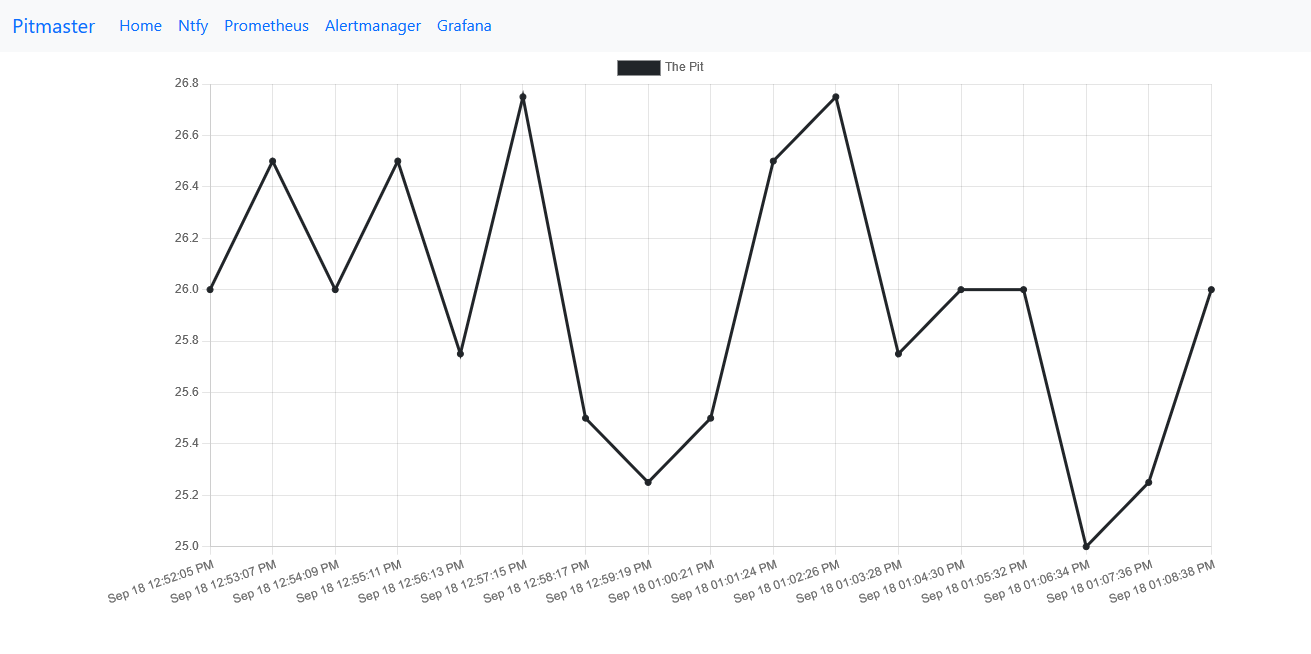
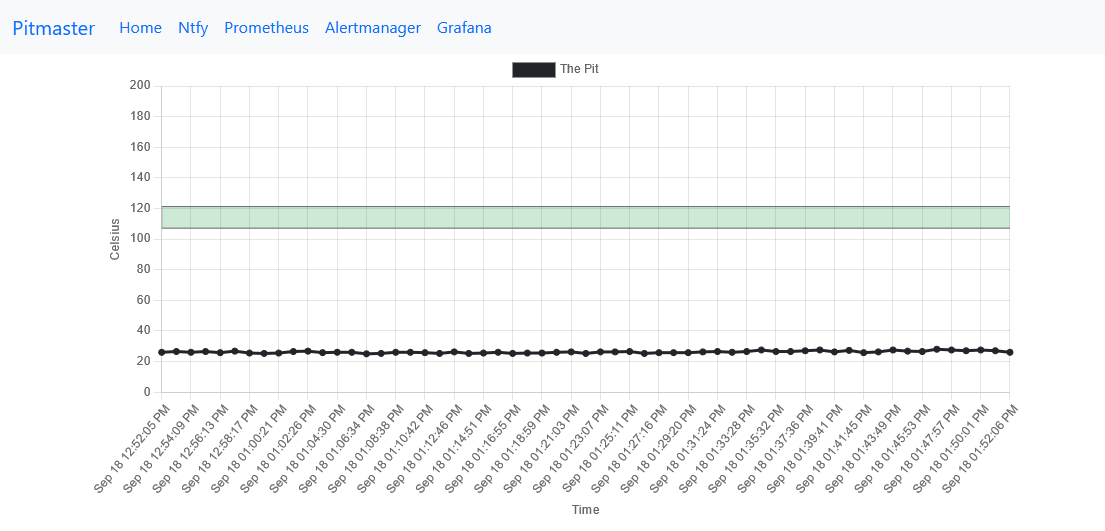
pitmastering

diff --git a/configuration/roles/caddy/files/dashboard/js/main.js b/configuration/roles/caddy/files/dashboard/js/main.js
@@ -20,7 +20,40 @@ function initializeChart(res) {
   const config = {
     type: "line",
     data: data,
-    options: {},
+    options: {
+      plugins: {
+        autocolors: false,
+        annotation: {
+          annotations: {
+            box1: {
+              type: "box",
+              xMin: 0,
+              xMax: 100000000000000,
+              yMin: 107.1,
+              yMax: 121.2,
+              backgroundColor: "rgba(0, 151, 52, 0.2)",
+            },
+          },
+        },
+      },
+      scales: {
+        x: {
+          title: {
+            display: true,
+            text: "Time",
+          },
+        },
+        y: {
+          beginAtZero: true,
+          min: 0,
+          max: 200,
+          title: {
+            display: true,
+            text: "Celsius",
+          },
+        },
+      },
+    },
   };
   const allReadings = new Chart(document.getElementById("all-readings"), config);
 }

diff --git a/configuration/roles/caddy/files/dashboard/index.html b/configuration/roles/caddy/files/dashboard/index.html
@@ -100,6 +100,8 @@
       crossorigin="anonymous"
     ></script>
     <script src="https://cdn.jsdelivr.net/npm/chart.js@3.9.1/dist/chart.min.js"></script>
+    <script src="https://cdn.jsdelivr.net/npm/chartjs-plugin-annotation@2.0.1/dist/chartjs-plugin-annotation.min.js"></script>
+
     <script src="https://cdn.jsdelivr.net/npm/dayjs@1/dayjs.min.js"></script>
     <script src="./js/main.js"></script>
   </body>
